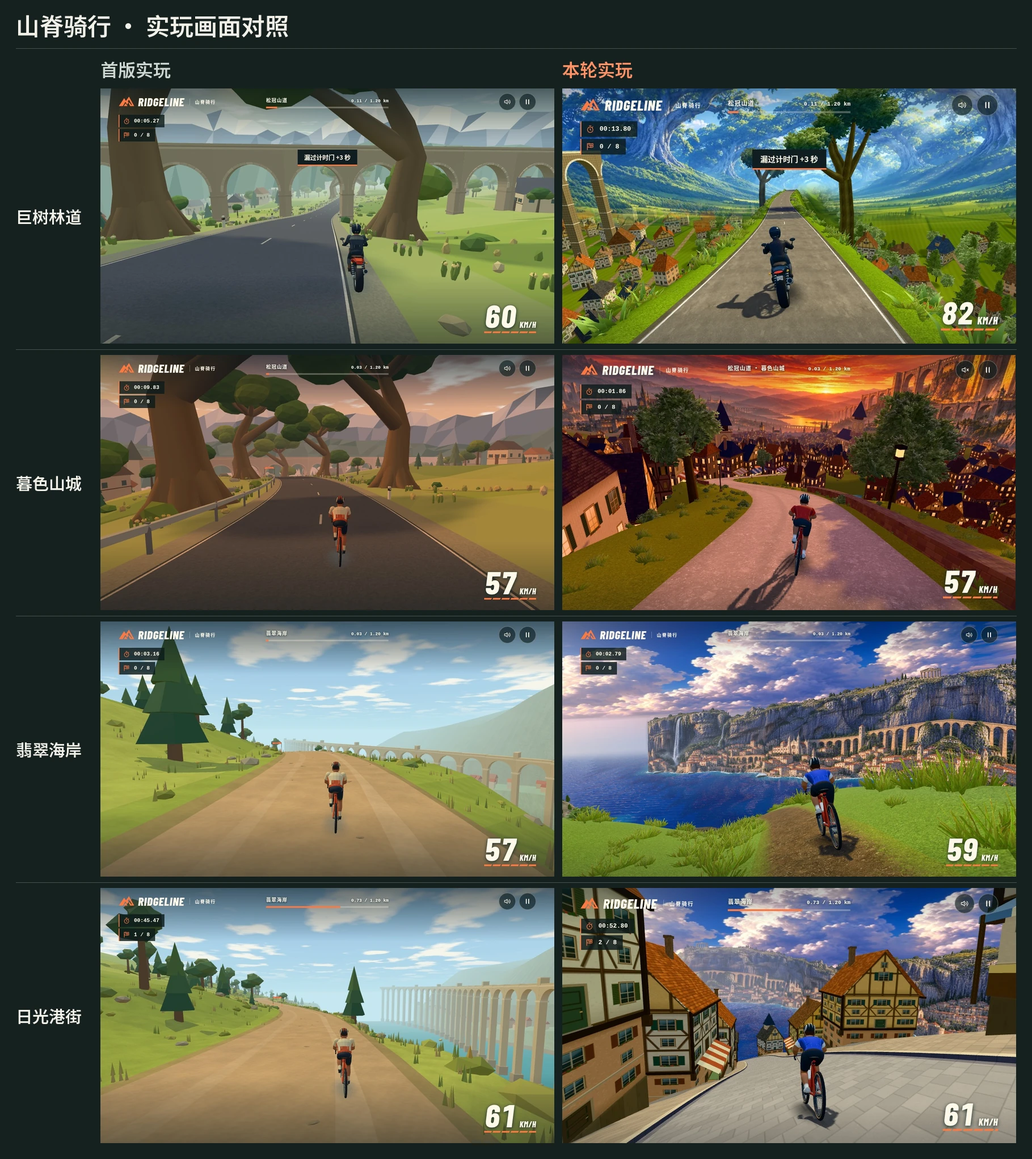
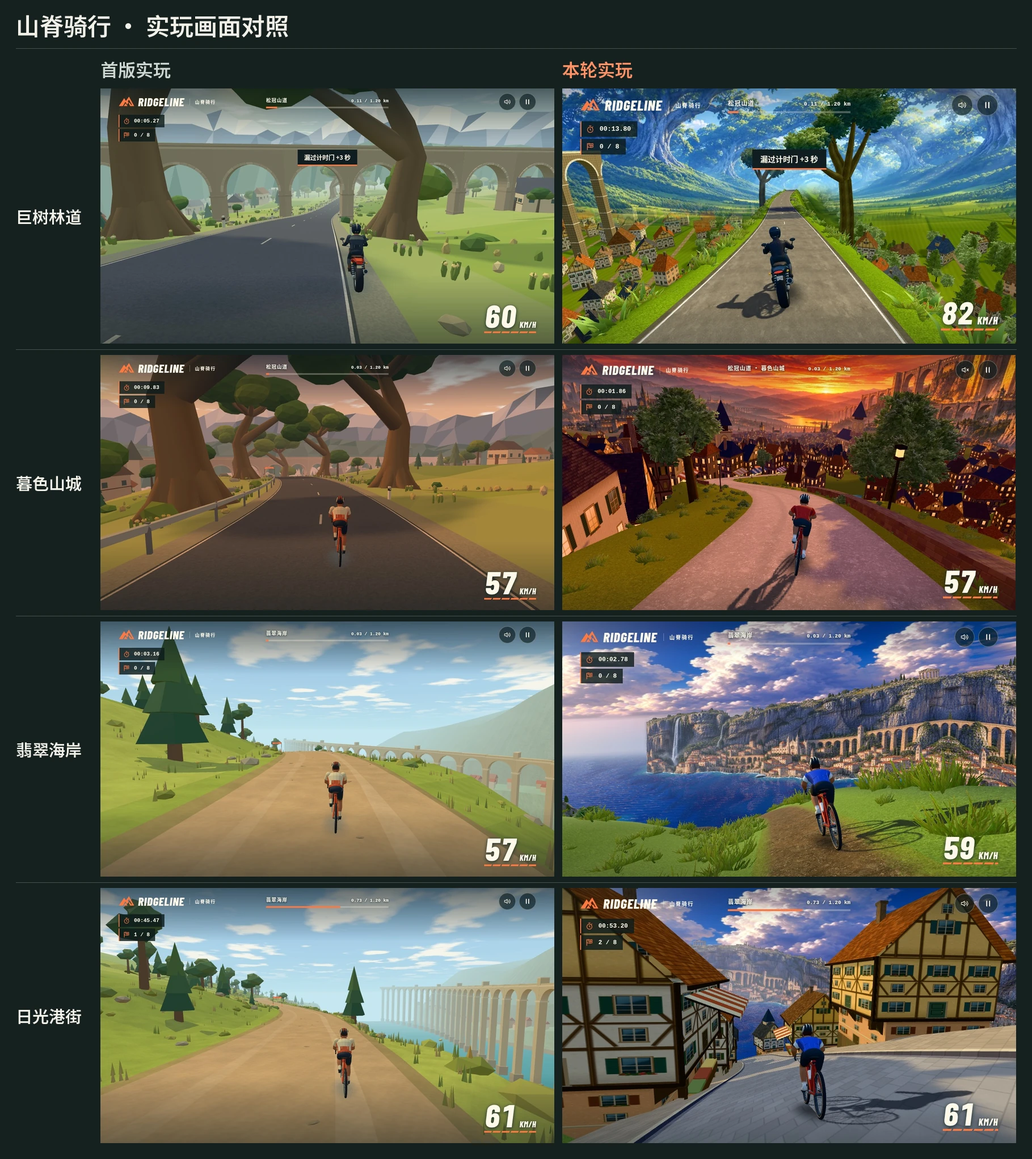
更新同机位港街对照，记录日照与阴影差异

diff --git a/STATUS.md b/STATUS.md
@@ -47,3 +47,9 @@ GitHub Pages 已成功构建。线上 Chromium 从公开入口切换至海岸自
 日光港街版 `311064f` 的公开海岸赛在 640×360 的 Chromium / SwiftShader 下正常冲线。通过 3/8 道门，骑行 66.50 秒，加罚 15 秒，结算 81.50 秒。重赛归零，返回选道成功。该次传输 2.45 MB，软件渲染平均 3.18 FPS，比赛期间出现了 8 次着色器编译。
 
 在相同的 12 个实玩机位复现了编译问题。加入出发前的远景与阴影预热后，游戏版本 `6b1917f` 的公开海岸赛从冷启动跑完全程，全部 68 次着色器编译均发生在菜单，骑行阶段为 0 次。第 6 道门在港街出口命中，最终通过 4/8，道路用时 65.20 秒，加罚 12 秒，结算和个人最佳均为 77.20 秒，重赛和返回正常。网络传输 2,447,976 字节，双核 SwiftShader 采样的 235 个骑行帧间隔对应平均 3.59 FPS，最长帧间隔为 800 毫秒。独立部署包也从项目子路径冷启动，完成海岸选车、起跑和暂停，浏览器无脚本或下载错误。
+
+## 日光港街的屋影
+
+对照第 5 段演示，旧版港街的亮石板与屋檐下的路面接近同一色。天空与海面反射使用的太阳方位和照亮实物的方向相差约 41°，旧版实物阳光在 730 米处几乎沿街照射。现在天空、海面、建筑和骑手共用太阳方向；半木屋上层向外悬挑，棚布和托木参与实际投影。
+
+同一机位的 800×450 游戏截帧中，在画面宽度 37%–46%、高度 82%–90% 范围读取石板平均 sRGB。730 米处由暖灰 (171, 164, 147) 变为蓝灰 (107, 113, 125)。参考画面中相同位置为 (42, 58, 85)，原片的阴影仍然更深。从 0.72 骑到 0.78 公里，阴影随骑手经过檐口连续掠过，街口可见远海。
